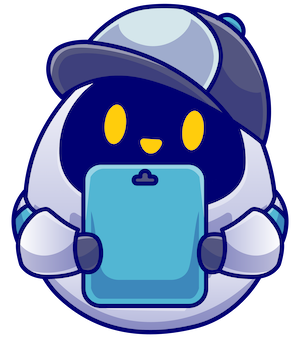
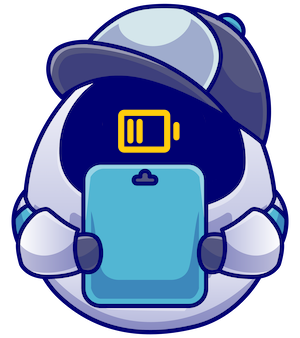
monir changes

Changed region(s): [[0.33, 0.2959, 0.69, 0.4734]]

diff --git a/examples/sample-dailyplanner.html b/examples/sample-dailyplanner.html
@@ -771,7 +771,7 @@
         }
 
         function setRandomrobotImage() {
-            const randomNumber = Math.floor(Math.random() * 6) + 1; 
+            const randomNumber = Math.floor(Math.random() * 7) + 1; 
             const imagePath = `images/Robot${randomNumber}.png`;
             document.getElementById('robotImage').src = imagePath;
         }
